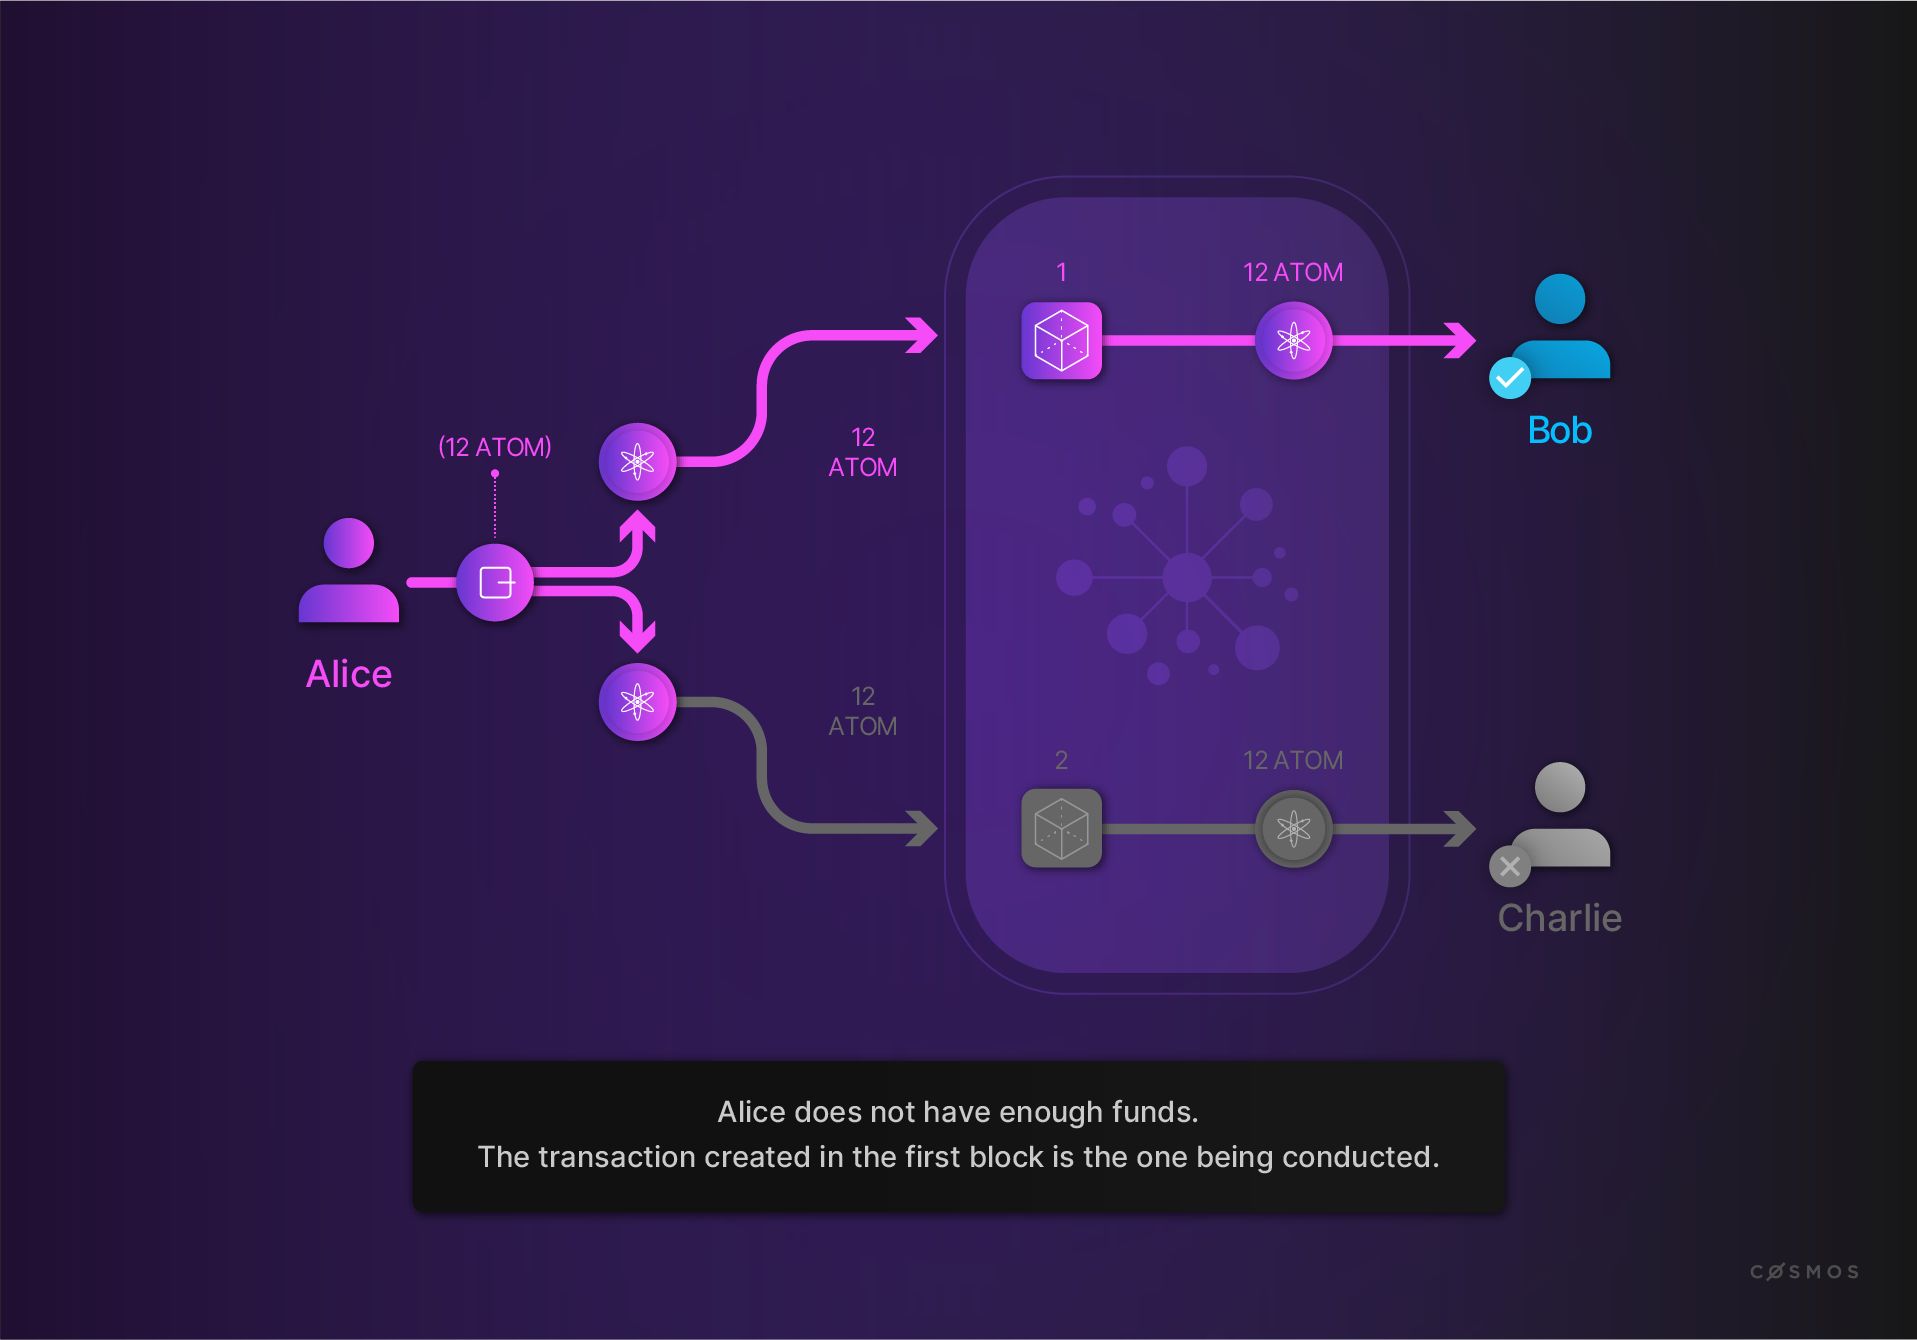
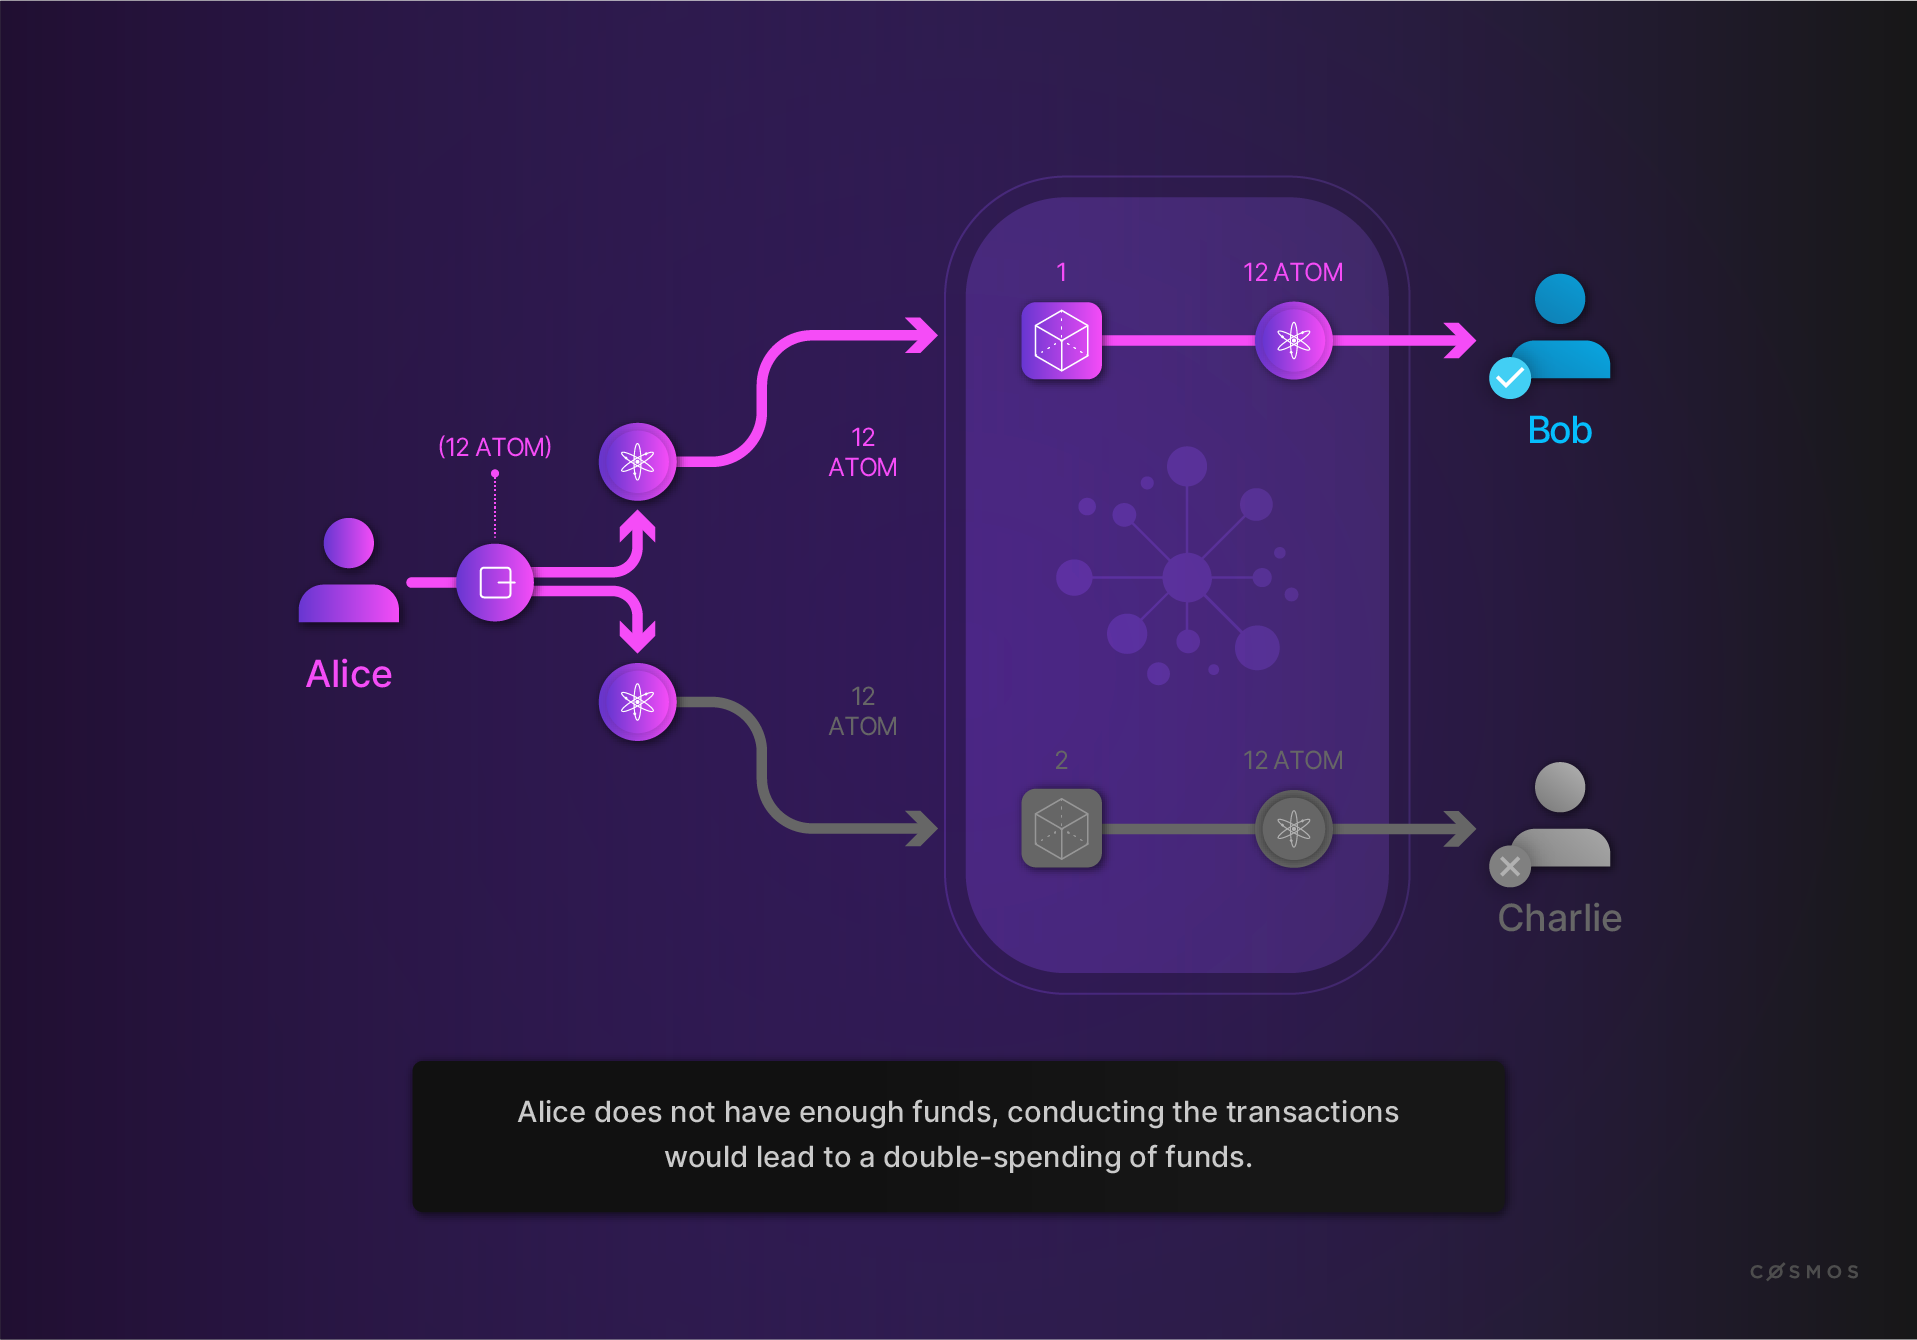
double-spending images

Changed region(s): [[0.2462, 0.8261, 0.7387, 0.8873]]

diff --git a/academy/0.0-B9lab-Blockchains/1_blockchain.md b/academy/0.0-B9lab-Blockchains/1_blockchain.md
@@ -19,7 +19,7 @@ Blockchain technology is rapidly evolving and may be difficult for newcomers to 
 
 Blockchain is a solution to a particular problem ... the **double-spending problem**.
 
-![TODO: double spending](images/doublespendingproblem2.png)
+![TODO: double spending](images/00_14_double_spending_v2-01.png)
 
 We're all familiar with digital artifacts (a file) and the ease with which they can be copied. This presents obvious problems if we want digital artifacts to represent assets with value. But a more pressing issue is the possibility of spending a digital token more than once, also known as double-spending. What prevents someone from making copies and spending the same money twice?
 
@@ -62,7 +62,7 @@ Consequently, it is generally not possible for two parties to exchange value onl
 
 At a high level, Bitcoin solves the double-spending problem by replacing the trusted central ledger-keepers with a decentralized and distributed network of ledger-keepers. Each member of the network has an exact replica of the ledger. In addition, no one can update the ledger without a establishing consensus with the other ledger-keepers. 
 
-![](images/00_04_double_spending_dark.png)
+![](images/00_14_double_spending_v1-01.png)
 
 It is as though each transaction is observed by a *large crowd of witnesses* who reach consensus about proposed changes. The crowd prohibits events that should not occur, such as spending the same funds twice (i.e. double-spending).
 
